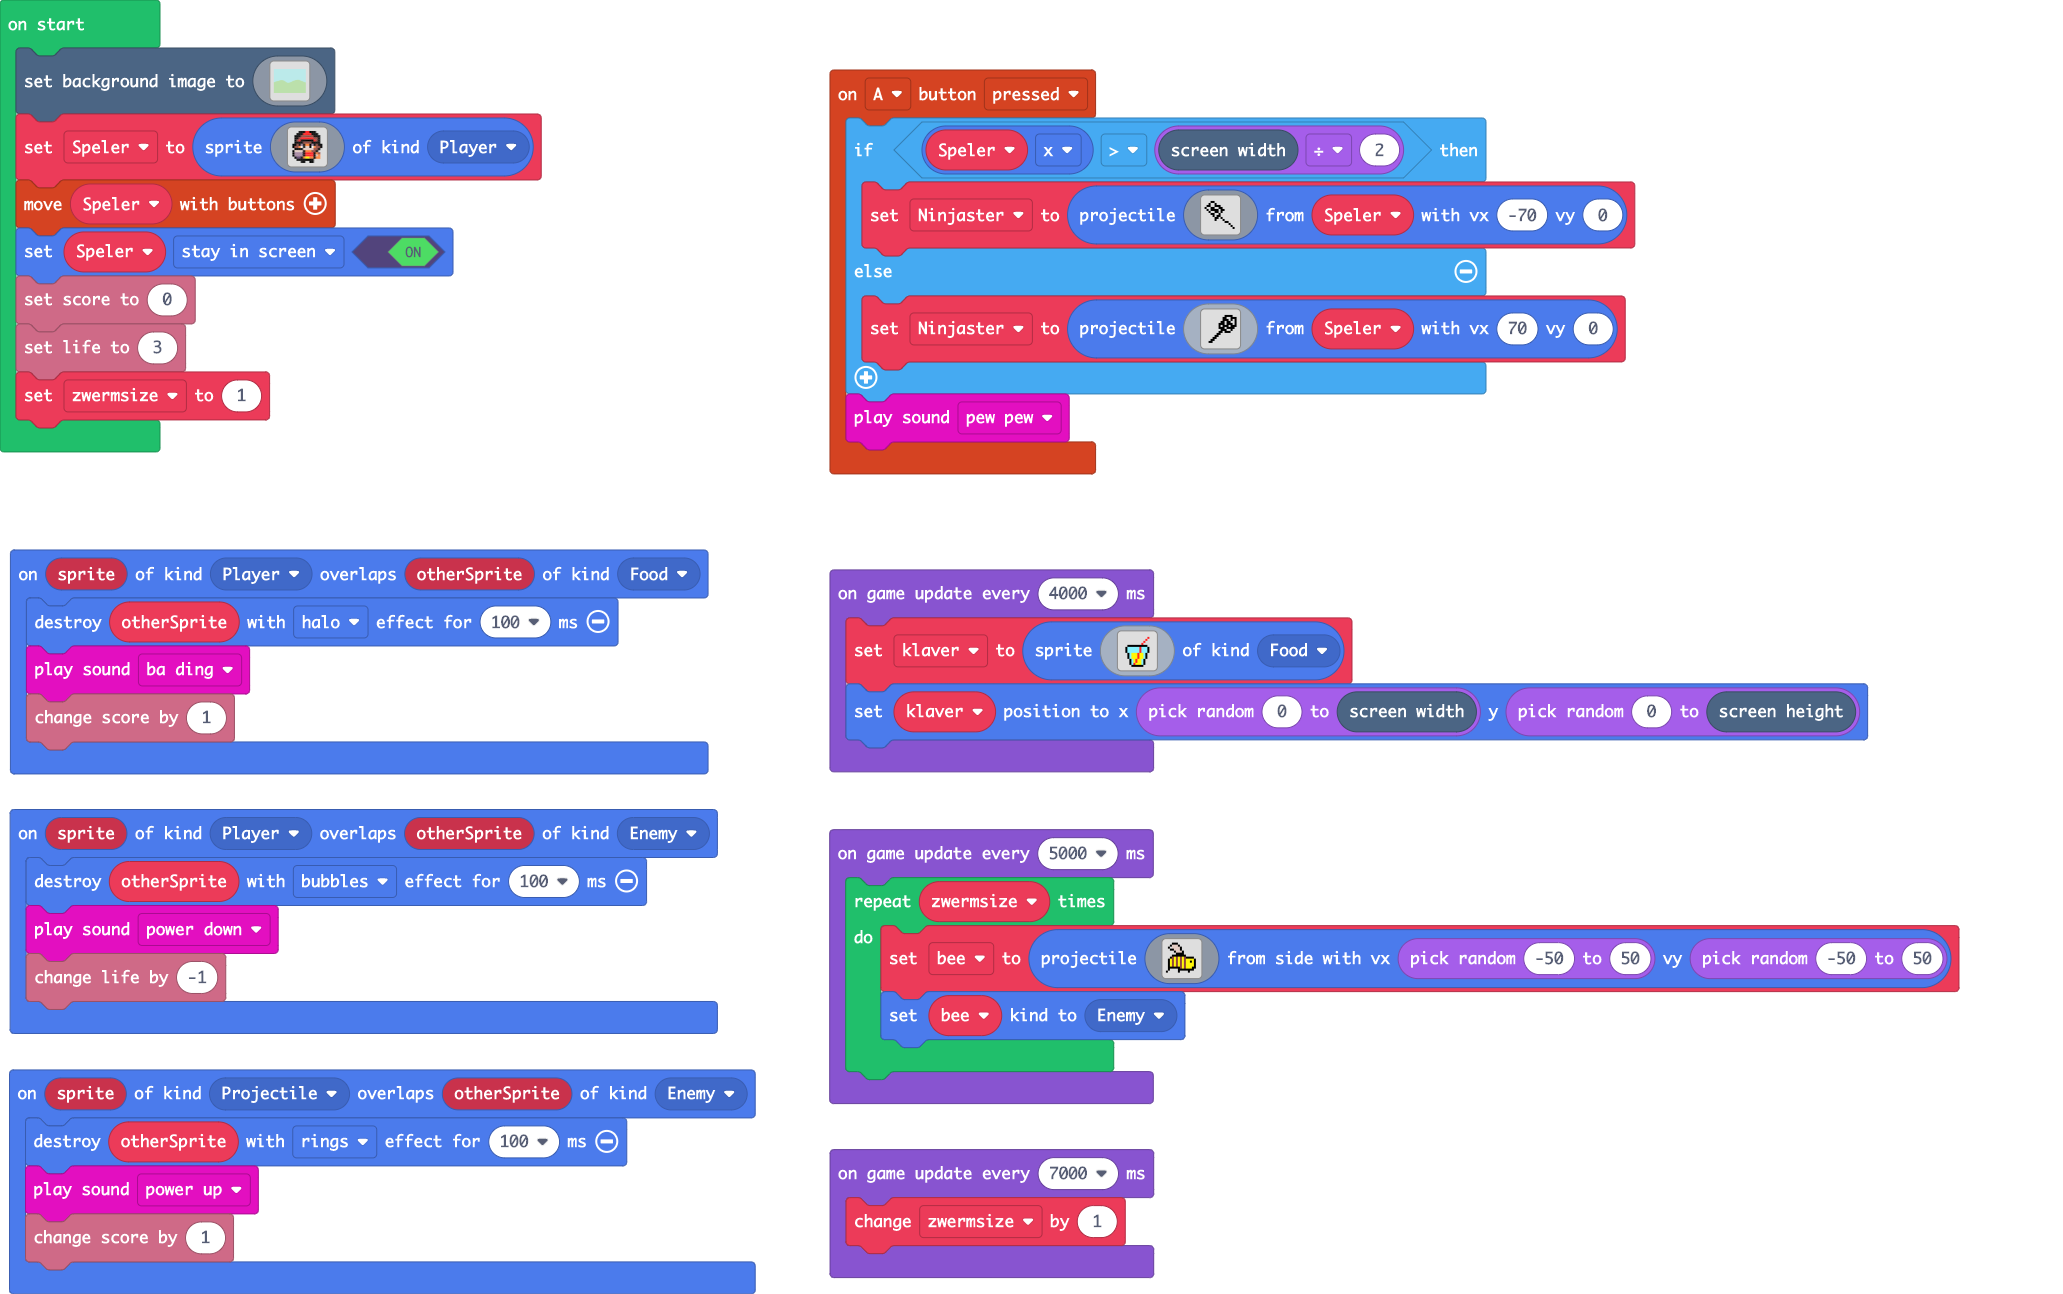
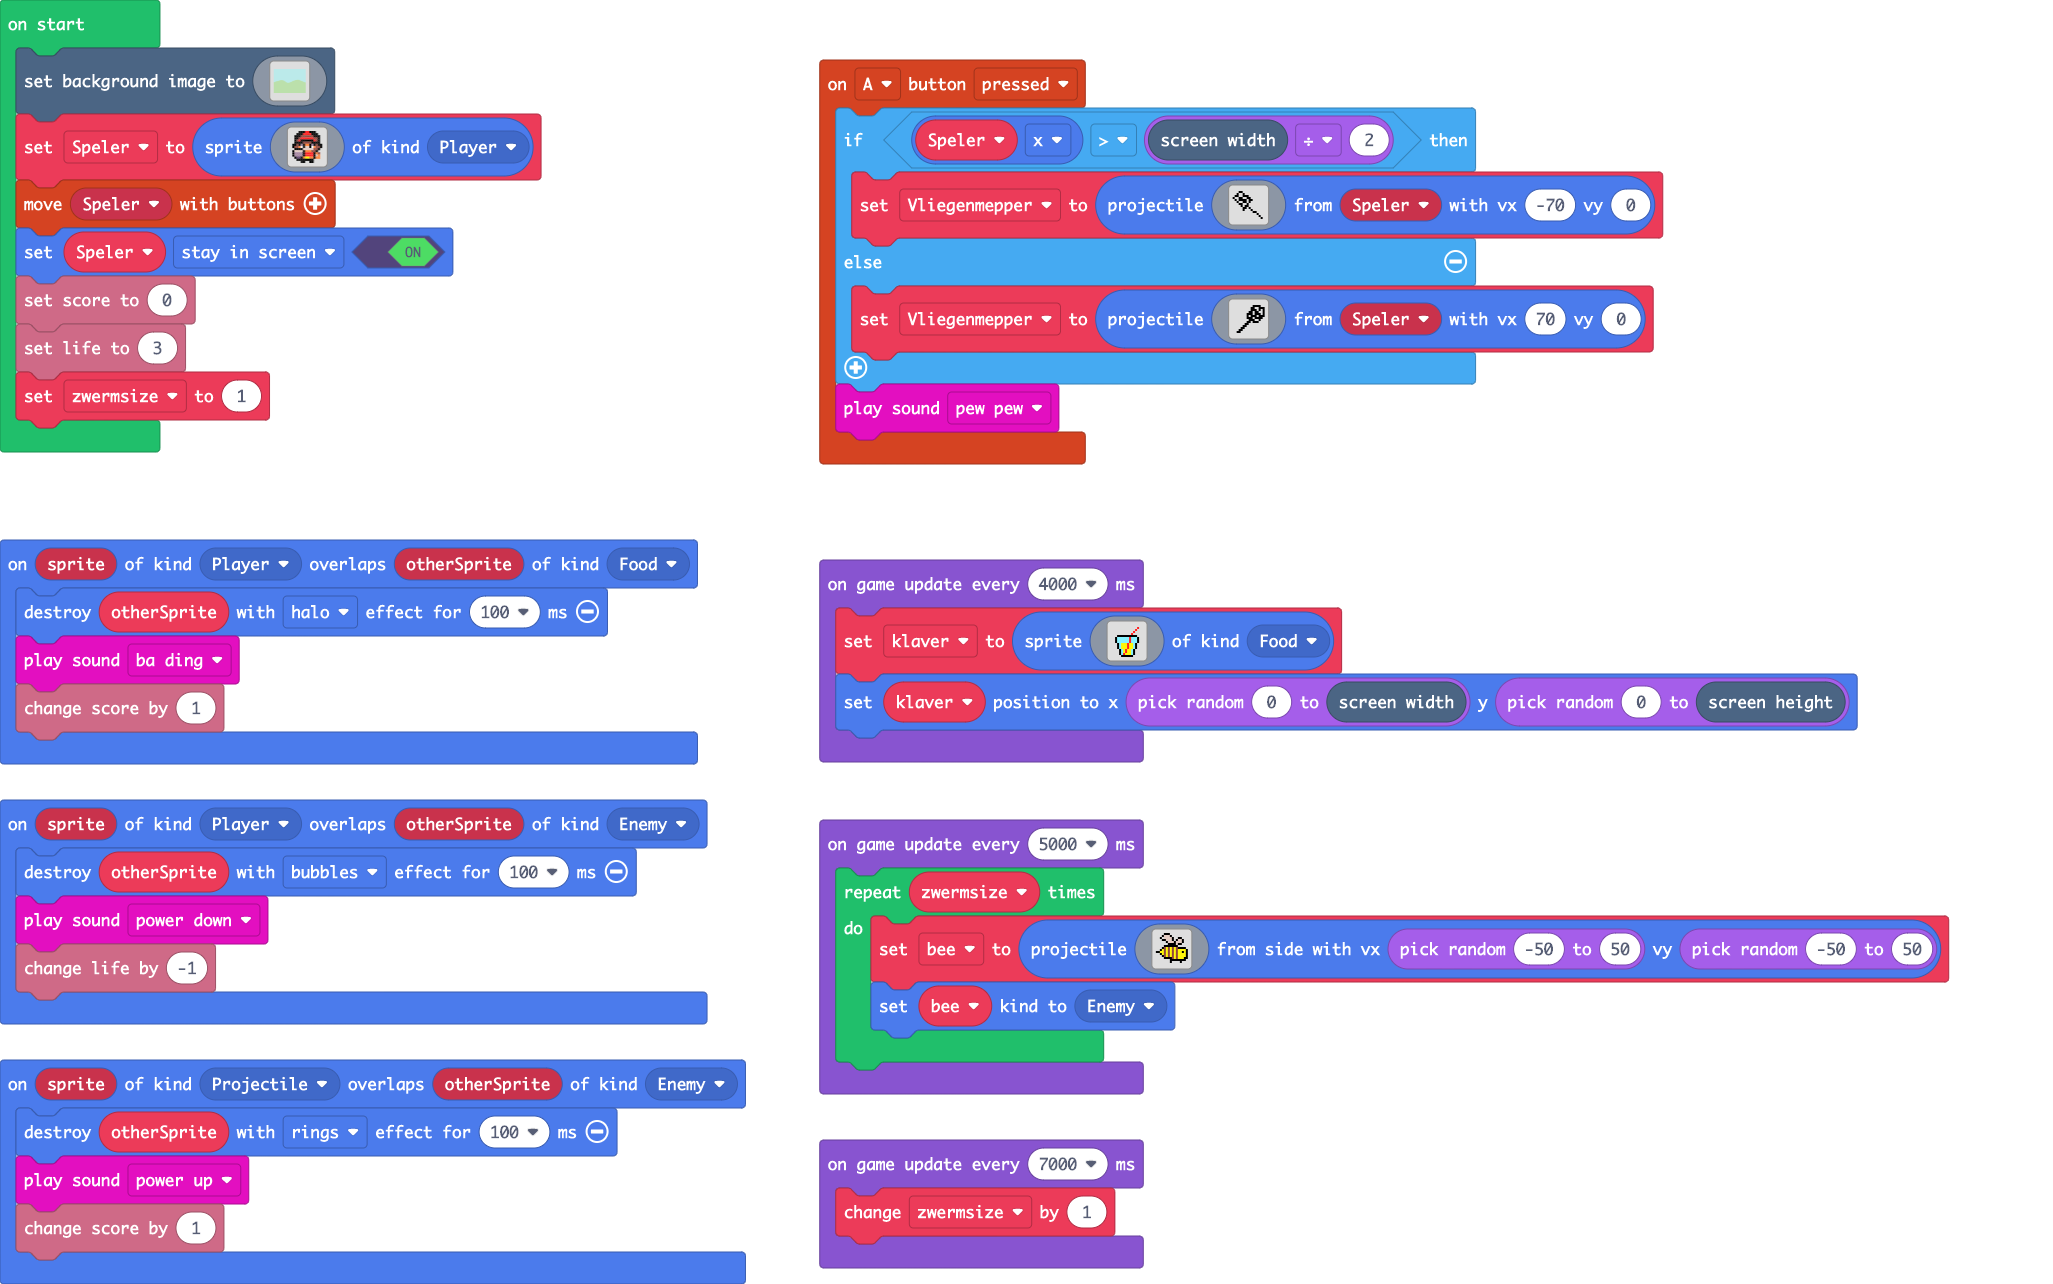
Bij en vliegenmepper updates

diff --git a/main.ts b/main.ts
@@ -1,6 +1,6 @@
 controller.A.onEvent(ControllerButtonEvent.Pressed, function () {
     if (Speler.x > scene.screenWidth() / 2) {
-        Ninjaster = sprites.createProjectileFromSprite(img`
+        Vliegenmepper = sprites.createProjectileFromSprite(img`
             . . . . . . . . . . . . . . . . 
             . . . f f . . . . . . . . . . . 
             . . f . . f . . . . . . . . . . 
@@ -19,7 +19,7 @@ controller.A.onEvent(ControllerButtonEvent.Pressed, function () {
             . . . . . . . . . . . . . . . . 
             `, Speler, -70, 0)
     } else {
-        Ninjaster = sprites.createProjectileFromSprite(img`
+        Vliegenmepper = sprites.createProjectileFromSprite(img`
             . . . . . . . . . . . . . . . . 
             . . . . . . . . . . f f f f . . 
             . . . . . . . . . f f . . f f f 
@@ -57,7 +57,7 @@ sprites.onOverlap(SpriteKind.Player, SpriteKind.Enemy, function (sprite, otherSp
 })
 let klaver: Sprite = null
 let bee: Sprite = null
-let Ninjaster: Sprite = null
+let Vliegenmepper: Sprite = null
 let Speler: Sprite = null
 scene.setBackgroundImage(img`
     9999999999999999999999999999999999999999999999999999999999999999999999999999999999999999999999999999999999999999999999999999999999999999999999999999999999999999
@@ -206,21 +206,21 @@ let zwermsize = 1
 game.onUpdateInterval(5000, function () {
     for (let index = 0; index < zwermsize; index++) {
         bee = sprites.createProjectileFromSide(img`
-            . . . f f f . . . . . . . . . . 
-            . . f d d d f . . . . . . . . . 
-            . f . d d d d f . . . . . . . . 
-            . . f f d d d f . . . . . . . . 
-            . . . . f d d d f . . . . . . . 
-            . . . . . f f f f . . . . . . . 
-            . . . f f f f f f f . . . . . . 
-            . . f e 5 e 5 e 5 e f f f f . . 
-            . f 5 e 5 e 5 e 5 e 5 5 5 5 f . 
-            . f 5 e 5 e 5 e 5 e 5 5 f 5 f . 
-            . f 5 e 5 e 5 e 5 e 5 5 5 5 f . 
-            . f 5 e 5 e 5 e 5 e 5 5 5 5 f . 
-            . f f f f f f e 5 e 5 5 5 f f . 
-            . f . . . . f f f f f f f f . . 
-            f . . . . . f . . . . f . . . . 
+            . . . . f f f . . . . . . . . . 
+            . . . f d d d f . . . . . . . . 
+            . . f . d d d d f . . f f . . . 
+            . . . f f d d d f . f d d f . . 
+            . . . . . f d d d f d d d f . . 
+            . . . . . . f f f f d f f . . . 
+            . . . . f f f f f f f . . . . . 
+            . . . f e 5 e 5 e 5 e f f f f . 
+            . . f 5 e 5 e 5 e 5 e 5 5 5 5 f 
+            f f 5 5 e 5 e 5 e 5 e 5 5 f 5 f 
+            . . f 5 e 5 e 5 e 5 e 5 5 5 5 f 
+            . . . f e 5 e 5 e 5 e 5 5 5 5 f 
+            . . . . f f f f e 5 e 5 5 5 f f 
+            . . . . . . . f f f f f f f f . 
+            . . . . . . . f . . . . f . . . 
             . . . . . . . . . . . . . . . . 
             `, randint(-50, 50), randint(-50, 50))
         bee.setKind(SpriteKind.Enemy)
